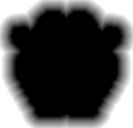
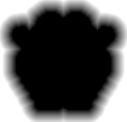
Prova meccaniche: cerchio d'azione e personaggi all'80%
Ogni personaggio della prova ha un cerchio d'azione: una linea sottile con la
forma del suo cartoncino, che si stringe verso la carta e la tocca nel momento
in cui il personaggio agisce. Il cerchio di un nemico si apre al massimo quando
arriva o sceglie l'azione successiva e si chiude lungo il conto alla rovescia di
quell'azione. Il colore dice cosa sta per fare: rosso un colpo ravvicinato
(attacco, spinta, fendente, carica), arancio un colpo a distanza o ad area
(mira, tiro, bombe, barili accesi), verde un movimento, viola una protezione.
Recupero e attesa non hanno cerchio. Quello del Viandante è oro, come il colpo
critico, e batte i secondi dello scocco: largo subito dopo uno scocco, sulla
carta al successivo, sempre col tempo reale anche quando un'azione consuma
secondi. I cerchi sono disegnati sopra tutto, con il campo della carta.

Le figure dei cartoncini vivi passano dal 75% all'80%; il cartoncino resta
della stessa misura.

Lo smoke della prova filma 2,5 secondi di cerchi; test per colori e tempi.

diff --git a/tools/art/living.py b/tools/art/living.py
@@ -33,7 +33,7 @@ TWOS = 12          # drawings per second for most of the motion
 ONES = 24          # ...and where it is fastest
 # Figure size against the classic card: the paper keeps its size and the
 # print shrinks, so the figure has room to move inside it.
-LIVING_SCALE = 0.75
+LIVING_SCALE = 0.80
 COLUMNS = 16
 MAX_FRAMES = 48
 RENDER_MARGIN = 60

diff --git a/README.md b/README.md
@@ -121,6 +121,27 @@ gioco usa i cartoncini classici. Generatore e regole sono in
 [tools/art/README.md](tools/art/README.md#cartoncini-vivi-prova-meccaniche); il
 runtime è [living_card.odin](src/render/living_card.odin).
 
+Ogni personaggio della prova ha anche un **cerchio d'azione**: una linea sottile
+con la forma del suo cartoncino, che si stringe verso la carta e la tocca nel
+momento in cui il personaggio agisce. Il cerchio di un nemico si apre al massimo
+quando arriva o sceglie l'azione successiva e si chiude lungo il conto alla
+rovescia di quell'azione (quello scritto sopra di lui). Il colore dice cosa sta
+per fare:
+
+| Colore | Azione in arrivo |
+|---|---|
+| rosso | colpo ravvicinato: attacco, spinta, fendente, carica |
+| arancio | colpo a distanza o ad area: mira, tiro, bombe, barili accesi |
+| verde | movimento |
+| viola | protezione di un alleato |
+
+Durante recupero e attesa non c'è cerchio. Il cerchio del Viandante è oro, come
+il colpo critico, e batte i secondi: è al massimo subito dopo uno scocco e tocca
+la carta allo scocco successivo; segue il tempo reale anche quando un'azione
+consuma secondi. I colori caldi staccano dal pavimento blu e segnano le minacce;
+verde e viola, vicini al blu, sono chiari; rosso e verde differiscono anche per
+luminosità, per chi è daltonico ([living_ring.odin](src/render/living_ring.odin)).
+
 | Opzione | Uso |
 |---|---|
 | `--run` | salta il menu ed entra subito nella run |
@@ -719,7 +740,7 @@ odin run src -o:none -- --classic
 | `--smoke-m7-view` | prova grafica di scena, oggetti 3D, fog, ologramma, QTE e menu |
 | `--smoke-m8-view` | prova 3D di d4, dispositivi, offerta del ring, equipaggiamento, scheda personaggio, tag match e cambio stanza |
 | `--smoke-western` | nuvoletta 6 RANCH 7: apertura automatica, volo delle carte, insegna, porte, corsa a tempo e premio |
-| `--smoke-mechanics-lab` | Prova meccaniche: arena aperta, mano di sole Tesla, ring riaperto, arrivi fino al massimo, ultima uccisione senza fine del combattimento, cartoncino del giocatore di nuovo in piedi dopo morte e riavvio, cartoncini vivi (un passo e un attacco fotogramma per fotogramma) |
+| `--smoke-mechanics-lab` | Prova meccaniche: arena aperta, mano di sole Tesla, ring riaperto, arrivi fino al massimo, ultima uccisione senza fine del combattimento, cartoncino del giocatore di nuovo in piedi dopo morte e riavvio, cartoncini vivi (un passo e un attacco fotogramma per fotogramma) e cerchi d'azione |
 | `--smoke-m9-view` | arena continua, duello con IA, presa in quattro pose, replay e FPS con ricarica e vittoria |
 
 Gli smoke classici e i laboratori `--spell-lab` / `--dice-lab` conservano il comportamento classico;
@@ -1026,7 +1047,7 @@ le immagini sono output rigenerabili, non prerequisiti del checkout.
 | `--smoke-arenas-view` | quattro fasce di arene reali, combattimento, ologramma, Loot e cambio stanza; screenshot `odin_pp_arenas_*.png` |
 | `--smoke-m8-view` | dispositivi con APRI IL RING, campo, tag match, ritorno Loot: `odin_pp_m8_d4.png`, `devices`, `mega_combo`, `character`, `loot`, `tag_ring`, `next_room` (tutti con prefisso `odin_pp_m8_` e suffisso `.png`) |
 | `--smoke-western` | 6 RANCH 7 dalla mano al premio: `odin_pp_western_hand.png`, `cards`, `sign`, `gate`, `riders`, `ride`, `grab`, `win`, `reward` (prefisso `odin_pp_western_`) |
-| `--smoke-mechanics-lab` | sandbox: `odin_pp_mechanics_lab.png`, `_square`, `_full`, `_refill`, `_restart` (prefisso `odin_pp_mechanics_lab`); cartoncini vivi: `odin_pp_living_move_00.png`–`_37` e `odin_pp_living_attack_00.png`–`_37`, un'immagine ogni due fotogrammi |
+| `--smoke-mechanics-lab` | sandbox: `odin_pp_mechanics_lab.png`, `_square`, `_full`, `_refill`, `_restart` (prefisso `odin_pp_mechanics_lab`); cartoncini vivi: `odin_pp_living_move_00.png`–`_37` e `odin_pp_living_attack_00.png`–`_37`, un'immagine ogni due fotogrammi; cerchi d'azione: `odin_pp_living_rings_00.png`–`_49`, ogni tre |
 | `--smoke` | `odin_pp_isometric.png` |
 | `--smoke-generation` | `odin_pp_procedural_room.png` |
 | `--smoke-map` | `odin_pp_route.png` |

diff --git a/tools/art/README.md b/tools/art/README.md
@@ -89,8 +89,8 @@ fermo. Scrive:
 Cosa cambia rispetto al flipbook classico:
 
 1. **Il cartoncino non si muove e non cambia forma.** È l'unione (anche
-   specchiata) delle sagome a riposo, allargata di 1/0,75 attorno ai piedi: la
-   figura è stampata al 75% e ha spazio per muoversi. Ciò che esce dalla carta
+   specchiata) delle sagome a riposo, allargata di 1/0,8 attorno ai piedi: la
+   figura è stampata all'80% e ha spazio per muoversi. Ciò che esce dalla carta
    viene tagliato dal bordo, come un disegno che esce dal foglio. Linea
    d'inchiostro e taglio hanno lo spessore dei cartoncini classici.
 2. **Le clip sono chiavi nel tempo**, scritte in `living_actions.py` (ms, con
